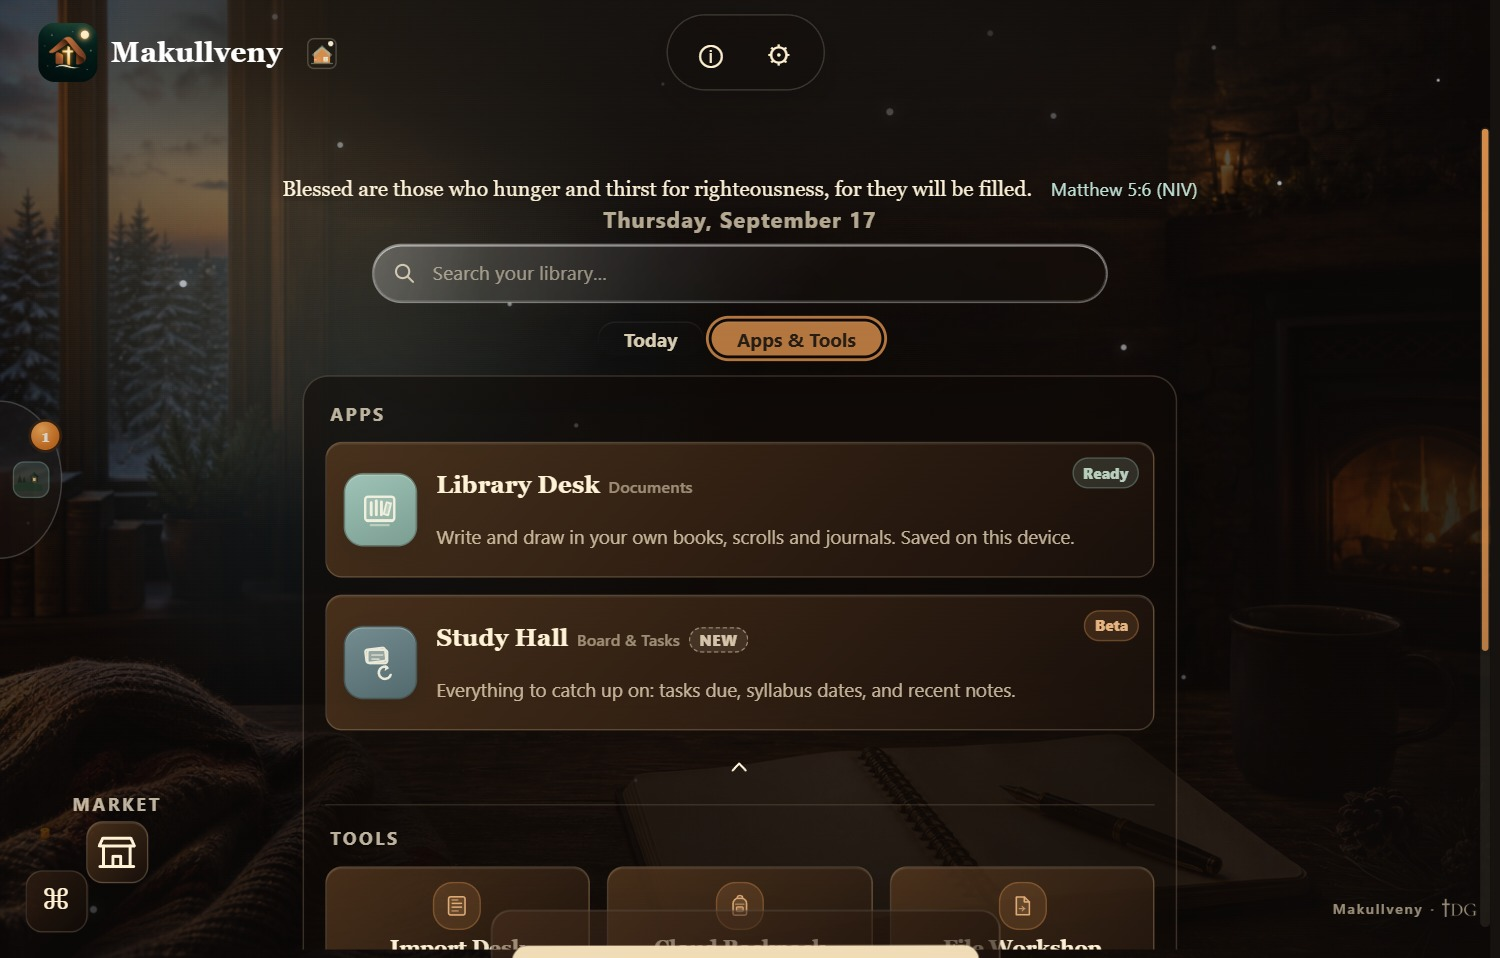
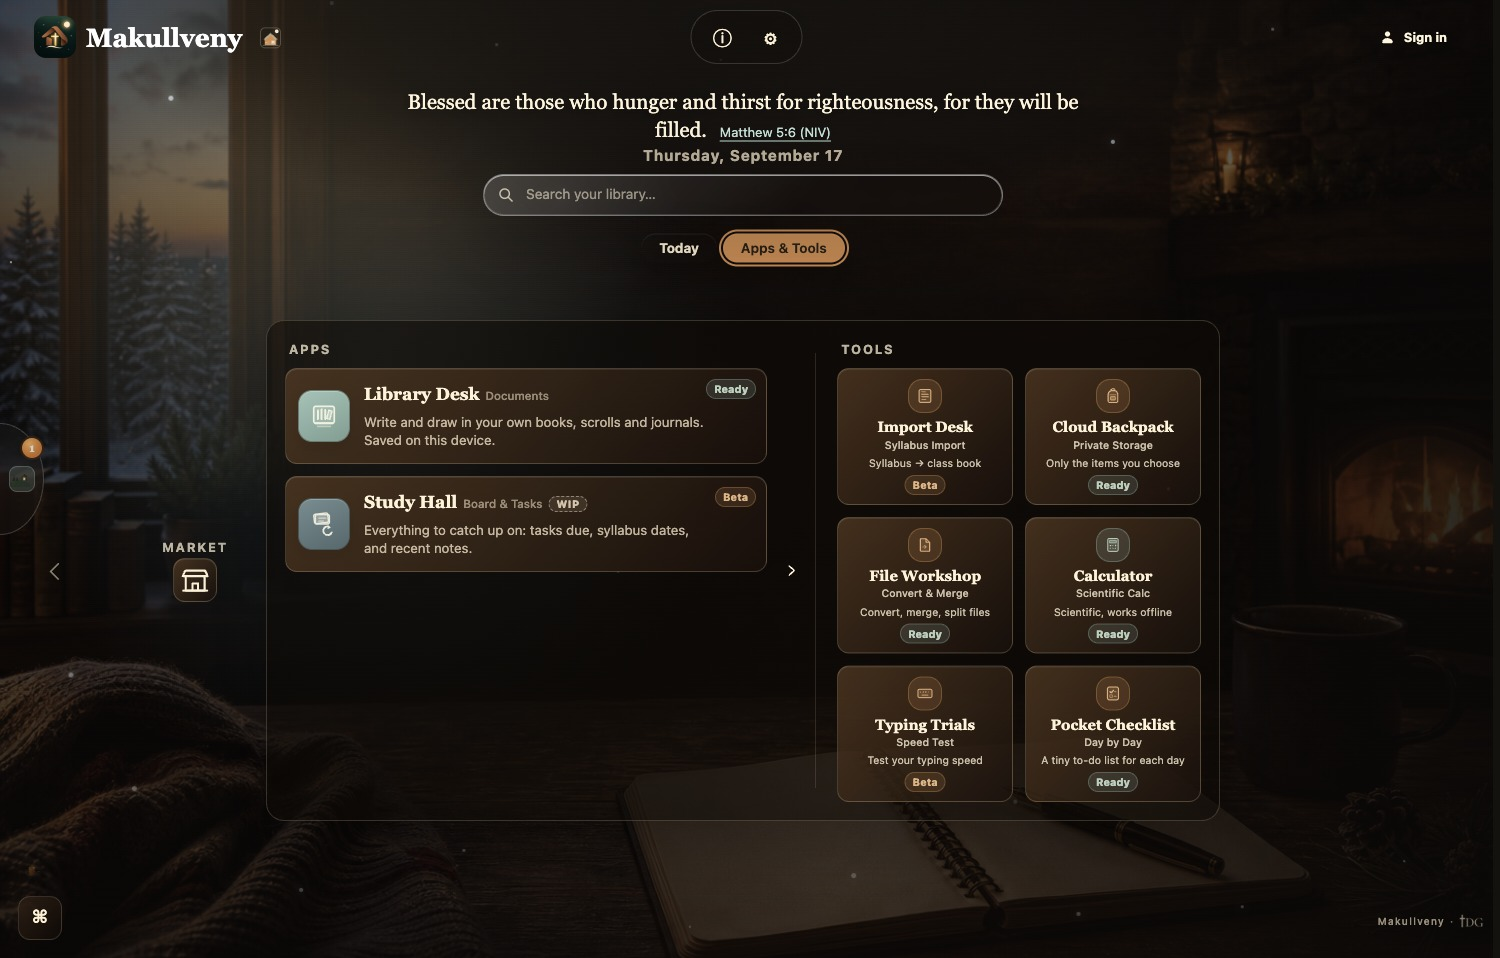
Re-shoot the app less zoomed, and put Study Hall in the hero
THE ZOOM WAS BACKWARDS. Every shot laid out at 1060 css px and was then
scaled up to its output size, so a SMALLER layout width meant a MORE zoomed
picture -- and 1060 is narrow enough that the wide screens arrived cropped
to their top-left corner. Apps & Tools was the clearest case: the section is
called "the tools" and the tools were off the bottom of the frame. Zoom is a
per-shot `css` now; the screens that needed room got 1500-1560, the ones
that were already right kept 1060.

THE DASHBOARD PICTURE was still the old Today tab, and the widget wall is
the whole point of it -- every card the reader can move. It is its own shot
now (widgetdash), taken tall enough to reach the bottom of the last row, so
the picture that is meant to say "this is all yours to rearrange" stops
saying "here is a timer".

THE RADIO DOCK was in every frame. It is fixed to the bottom of the window,
so it landed in each shot as a pale half-panel hanging off the edge that
reads as a rendering fault rather than a feature. Hidden for captures, not
clicked shut -- closing it is a preference the app would remember for the
rest of the run. The tool now also NAMES anything else still fixed over the
frame, so the next person does not have to guess from a JPEG what a shape
was; snowfall and the tiny footer are the two that remain, and both belong.

STUDY HALL IS IN THE HERO. Overview, Courses and Calendar were being
described in words and shown as 195px thumbnails. Overview was reshot at the
[…]

diff --git a/index.html b/index.html
@@ -1324,6 +1324,9 @@
           <img class="rot" data-slide="3" src="./assets/site/hero-selah-am.jpg" alt="Selah: Study Grounds at golden hour — a painted meadow under a pink and orange sky, a book shack in the middle, and a focus timer at 25:00" width="2120" height="1340" loading="lazy" decoding="async">
           <img class="rot" data-slide="4" src="./assets/site/hero-selah-pm.jpg" alt="The same Selah meadow at night — stars over snow-capped peaks, the book shack lit warm from inside" width="2120" height="1340" loading="lazy" decoding="async">
           <img class="rot" data-slide="5" src="./assets/site/hero-blueprint.jpg" alt="The blueprint sheet: a floor plan drawn on the drafting grid, with the line-type and shape menus open" width="1900" height="1214" loading="lazy" decoding="async">
+          <img class="rot" data-slide="6" src="./assets/site/sh-overview.jpg" alt="Study Hall Overview: how much is due today, what is left this week, a homework progress ring, and the next tasks from the board" width="2120" height="1340" loading="lazy" decoding="async">
+          <img class="rot" data-slide="7" src="./assets/site/sh-courses.jpg" alt="Study Hall Courses: every class of the term with its meeting days, its room, what is due next and how much is still open" width="2120" height="1340" loading="lazy" decoding="async">
+          <img class="rot" data-slide="8" src="./assets/site/sh-calendar.jpg" alt="Study Hall Calendar: a week with classes laid out by hour, deadlines along the top, an exam marked as a test, and a line across the current time" width="2120" height="1340" loading="lazy" decoding="async">
         </div>
       </div>
       <div class="rot-cap" aria-live="polite">
@@ -1332,6 +1335,9 @@
         <p class="rc" data-slide="3"><b>Selah: Study Grounds</b>The hours you actually sat down, built into a place. Study, and the clearing grows a library &mdash; nothing to break, nothing to lose.</p>
         <p class="rc" data-slide="4"><b>Selah at night</b>The same grounds, lit by the hour you are studying in. Golden morning, midday, dusk, night &mdash; it turns with your day.</p>
         <p class="rc" data-slide="5"><b>Blueprint</b>A drafting sheet for diagrams, floor plans and anything a lined page fights you on. Snapping grid, real line types, real shapes.</p>
+        <p class="rc" data-slide="6"><b>Study Hall &mdash; Overview</b>Where everything stands in one read: due today, left this week, how much of the week is finished, and what to pick up next.</p>
+        <p class="rc" data-slide="7"><b>Study Hall &mdash; Courses</b>Every class of the term on one page &mdash; when it meets, where, what is due next, and how much of it is still open.</p>
+        <p class="rc" data-slide="8"><b>Study Hall &mdash; Calendar</b>Classes and deadlines on the same week, an exam marked as a test, and a line across the hour you are in.</p>
       </div>
       <div class="rot-dots">
         <button class="rot-dot" type="button" data-on="true" aria-label="Show Makullveny — Today"></button>
@@ -1339,6 +1345,9 @@
           <button class="rot-dot" type="button" data-on="false" aria-label="Show Selah: Study Grounds · golden hour"></button>
           <button class="rot-dot" type="button" data-on="false" aria-label="Show Selah: Study Grounds · night"></button>
           <button class="rot-dot" type="button" data-on="false" aria-label="Show Library Desk — Blueprint"></button>
+          <button class="rot-dot" type="button" data-on="false" aria-label="Show Study Hall — Overview"></button>
+          <button class="rot-dot" type="button" data-on="false" aria-label="Show Study Hall — Courses"></button>
+          <button class="rot-dot" type="button" data-on="false" aria-label="Show Study Hall — Calendar"></button>
       </div>
     </div>
   </section>
@@ -1398,7 +1407,7 @@
       <div class="dash-shot rv rv-p" style="--d:.24s">
         <div class="win">
           <div class="win-bar"><span class="tl" style="background:#7a4a3a"></span><span class="tl" style="background:#8a7040"></span><span class="tl" style="background:#4f6b52"></span><span class="win-title">Makullveny — Today</span></div>
-          <img src="./assets/site/widgetdash.jpg" alt="The Makullveny Today dashboard: a Ready desk card naming the next assignment and why it matters, a focus timer at 18:24 with a lit candle, a September calendar, course progress bars, a due-soon list, the Quick shelf of tools and the Selah study grounds" width="1900" height="2008" loading="lazy" decoding="async">
+          <img src="./assets/site/widgetdash.jpg" alt="The Makullveny Today dashboard: a Ready desk card naming the next assignment and why it matters, a focus timer at 18:24 with a lit candle, a September calendar, course progress bars, a due-soon list, the Quick shelf of tools and the Selah study grounds" width="1900" height="2080" loading="lazy" decoding="async">
         </div>
       </div>
       <div class="lockin rv rv-p" style="--d:.28s">
@@ -1544,7 +1553,7 @@
           </div>
           <div class="sh-tabs">
             <figure>
-              <div class="win"><img src="./assets/site/sh-overview.jpg" alt="The Study Hall Overview tab: a Due today list reading off the board, and a Homework progress ring for the week" width="1600" height="1011" loading="lazy" decoding="async"></div>
+              <div class="win"><img src="./assets/site/sh-overview.jpg" alt="The Study Hall Overview tab: a Due today list reading off the board, and a Homework progress ring for the week" width="2120" height="1340" loading="lazy" decoding="async"></div>
               <figcaption>Overview &mdash; what is due today, and how much of the week&rsquo;s board is finished</figcaption>
             </figure>
             <figure>

diff --git a/design/Main.dc.html b/design/Main.dc.html
@@ -1301,6 +1301,9 @@
           <img class="rot" style="opacity: {{o3}}" src="hero-selah-am.jpg" alt="Selah: Study Grounds at golden hour — a painted meadow under a pink and orange sky, a book shack in the middle, and a focus timer at 25:00" width="2120" height="1340" loading="lazy" decoding="async">
           <img class="rot" style="opacity: {{o4}}" src="hero-selah-pm.jpg" alt="The same Selah meadow at night — stars over snow-capped peaks, the book shack lit warm from inside" width="2120" height="1340" loading="lazy" decoding="async">
           <img class="rot" style="opacity: {{o5}}" src="hero-blueprint.jpg" alt="The blueprint sheet: a floor plan drawn on the drafting grid, with the line-type and shape menus open" width="1900" height="1214" loading="lazy" decoding="async">
+          <img class="rot" style="opacity: {{o6}}" src="sh-overview.jpg" alt="Study Hall Overview: how much is due today, what is left this week, a homework progress ring, and the next tasks from the board" width="2120" height="1340" loading="lazy" decoding="async">
+          <img class="rot" style="opacity: {{o7}}" src="sh-courses.jpg" alt="Study Hall Courses: every class of the term with its meeting days, its room, what is due next and how much is still open" width="2120" height="1340" loading="lazy" decoding="async">
+          <img class="rot" style="opacity: {{o8}}" src="sh-calendar.jpg" alt="Study Hall Calendar: a week with classes laid out by hour, deadlines along the top, an exam marked as a test, and a line across the current time" width="2120" height="1340" loading="lazy" decoding="async">
         </div>
       </div>
       <div class="rot-cap" aria-live="polite">
@@ -1309,6 +1312,9 @@
         <p class="rc" style="opacity: {{o3}}"><b>Selah: Study Grounds</b>The hours you actually sat down, built into a place. Study, and the clearing grows a library &mdash; nothing to break, nothing to lose.</p>
         <p class="rc" style="opacity: {{o4}}"><b>Selah at night</b>The same grounds, lit by the hour you are studying in. Golden morning, midday, dusk, night &mdash; it turns with your day.</p>
         <p class="rc" style="opacity: {{o5}}"><b>Blueprint</b>A drafting sheet for diagrams, floor plans and anything a lined page fights you on. Snapping grid, real line types, real shapes.</p>
+        <p class="rc" style="opacity: {{o6}}"><b>Study Hall &mdash; Overview</b>Where everything stands in one read: due today, left this week, how much of the week is finished, and what to pick up next.</p>
+        <p class="rc" style="opacity: {{o7}}"><b>Study Hall &mdash; Courses</b>Every class of the term on one page &mdash; when it meets, where, what is due next, and how much of it is still open.</p>
+        <p class="rc" style="opacity: {{o8}}"><b>Study Hall &mdash; Calendar</b>Classes and deadlines on the same week, an exam marked as a test, and a line across the hour you are in.</p>
       </div>
       <div class="rot-dots">
         <sc-for list="{{dots}}" as="dot" hint-placeholder-count="5">
@@ -1373,7 +1379,7 @@
       <div class="dash-shot rv rv-p" style="--d:.24s">
         <div class="win">
           <div class="win-bar"><span class="tl" style="background:#7a4a3a"></span><span class="tl" style="background:#8a7040"></span><span class="tl" style="background:#4f6b52"></span><span class="win-title">Makullveny — Today</span></div>
-          <img src="widgetdash.jpg" alt="The Makullveny Today dashboard: a Ready desk card naming the next assignment and why it matters, a focus timer at 18:24 with a lit candle, a September calendar, course progress bars, a due-soon list, the Quick shelf of tools and the Selah study grounds" width="1900" height="2008" loading="lazy" decoding="async">
+          <img src="widgetdash.jpg" alt="The Makullveny Today dashboard: a Ready desk card naming the next assignment and why it matters, a focus timer at 18:24 with a lit candle, a September calendar, course progress bars, a due-soon list, the Quick shelf of tools and the Selah study grounds" width="1900" height="2080" loading="lazy" decoding="async">
         </div>
       </div>
       <div class="lockin rv rv-p" style="--d:.28s">
@@ -1519,7 +1525,7 @@
           </div>
           <div class="sh-tabs">
             <figure>
-              <div class="win"><img src="sh-overview.jpg" alt="The Study Hall Overview tab: a Due today list reading off the board, and a Homework progress ring for the week" width="1600" height="1011" loading="lazy" decoding="async"></div>
+              <div class="win"><img src="sh-overview.jpg" alt="The Study Hall Overview tab: a Due today list reading off the board, and a Homework progress ring for the week" width="2120" height="1340" loading="lazy" decoding="async"></div>
               <figcaption>Overview &mdash; what is due today, and how much of the week&rsquo;s board is finished</figcaption>
             </figure>
             <figure>

diff --git a/site.js b/site.js
@@ -42,8 +42,10 @@
   })();
 
   // ── 1. the rotator ────────────────────────────────────────────────────────
-  // Five slides and five captions share one index, so the picture and the words
-  // about it can never disagree. Six seconds, and a dot takes over when pressed.
+  // Every slide, caption, dot and window title shares ONE index, so the picture
+  // and the words about it can never disagree. Add a slide in design/Main.dc.html
+  // and you must add a title here AND in build-site.mjs, or the new picture
+  // borrows an older one's name. Six seconds, and a dot takes over when pressed.
   (function () {
     var stage = document.querySelector(".rotator");
     if (!stage) return;
@@ -56,7 +58,10 @@
       "Makullveny — Library Desk",
       "Selah: Study Grounds · golden hour",
       "Selah: Study Grounds · night",
-      "Library Desk — Blueprint"
+      "Library Desk — Blueprint",
+      "Study Hall — Overview",
+      "Study Hall — Courses",
+      "Study Hall — Calendar"
     ];
     var i = 0;
     var timer;
